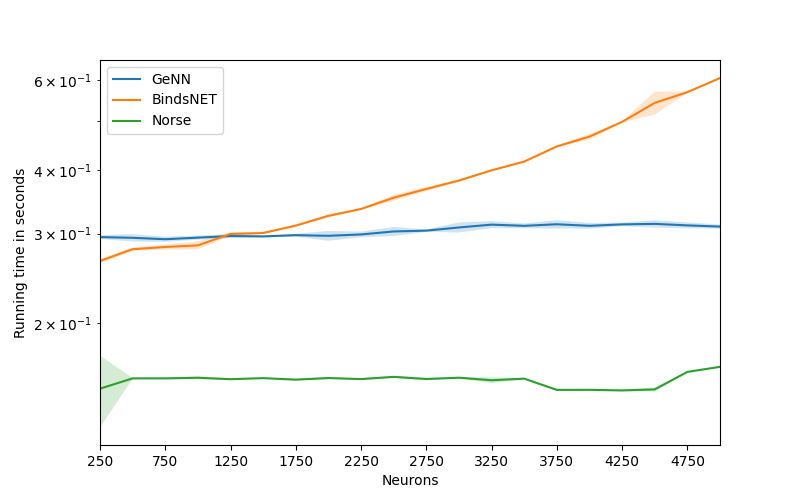
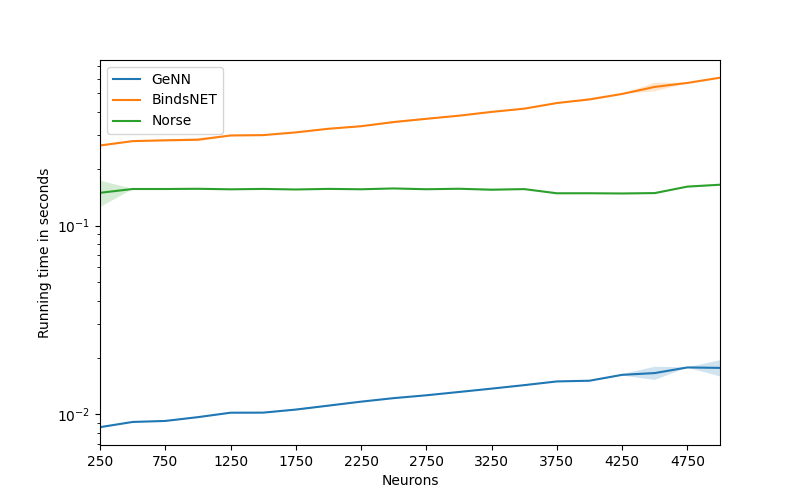
Updated benchmark png with GeNN cache

diff --git a/norse/benchmark/main.py b/norse/benchmark/main.py
@@ -106,15 +106,15 @@ def collect(data: BenchmarkData, label: str) -> dict:
 def main(argv):
     # pytype: disable=import-error
     if FLAGS.bindsnet:
-        from norse.benchmark import bindsnet_lif
+        import bindsnet_lif
 
         run_benchmark(bindsnet_lif.lif_feed_forward_benchmark, "BindsNET_lif")
     if FLAGS.genn:
-        from norse.benchmark import genn_lif
+        import genn_lif
 
         run_benchmark(genn_lif.lif_feed_forward_benchmark, "GeNN_lif")
     if FLAGS.norse:
-        from norse.benchmark import norse_lif
+        import norse_lif
 
         if FLAGS.profile:
             import torch.autograd.profiler as profiler

diff --git a/norse/benchmark/README.md b/norse/benchmark/README.md
@@ -9,15 +9,11 @@ BindsNET and GeNN are two of the closest competitors in the SNN space - at
 least in terms of performance.
 The graph below shows a benchmark between Norse, BindsNET, and GeNN simulating
 poisson encoded input to a single layer of LIF neurons. The simulation ran on a
-Intel i7-5930K 6-core CPU machine with a NVIDIA GTX Titan X card (12 Gb RAM) for 1000 
+AMD Ryzen Threadripper 3960X 24-Core machine with a NVIDIA RTX 3090 24 GB RAM GPU for 1000 
 timesteps with a time-delta of 0.001 seconds and a batch-size of 32.
 Each line indicates the mean running time out of 20 repeated runs and the coloured
 area indicates where ~95% of the runtimes fell.
 
-The benchmark indicates that for a single layer of less than 4500 LIF neurons, Norse outperforms both competitors.
-For larger numbers of neurons per layer, GeNN is likely faster due to the fact that they do not use matrix multiplications, but event based processing. 
-This scales with the number of events to be processes as opposed to quadratically in the case of Norse and BindsNET.
-This limitation is straight-forward to overcome, if one uses the fact that only (sparse) bit-vectors need to processed, 
-although it is rare to see that many neurons in a single layer in machine-learning tasks.
+The benchmark indicates that for a single layer of <= 5000 LIF neurons, Norse outperforms BindsNET by a factor of 2, but fails to beat the precompiled models in GeNN by a factor of ~10.
 
 ![](lif_benchmark.png)
